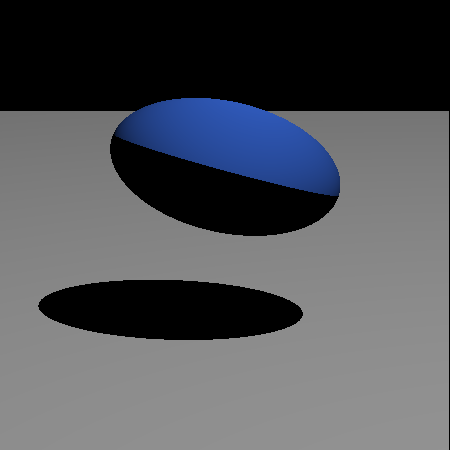
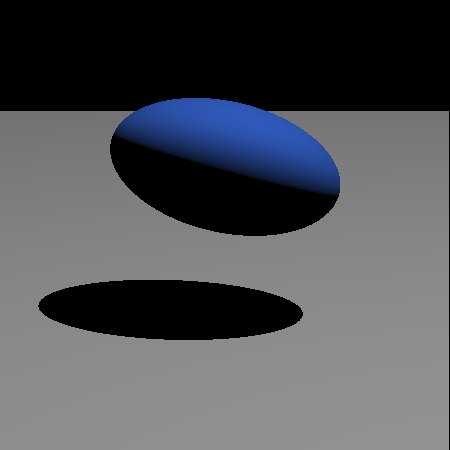
added semi working bounding boxes

Changed region(s): [[0.2489, 0.2489, 0.7467, 0.4356]]

diff --git a/ray/surface/Cylinder.java b/ray/surface/Cylinder.java
@@ -33,6 +33,8 @@ public class Cylinder extends Surface {
 	 * @return true if the surface intersects the ray
 	 */
 	public boolean intersect(IntersectionRecord outRecord, Ray rayIn) {
+		rayIn = untransformRay(rayIn);
+
 		 boolean inters = false;
 	        double tw = Double.POSITIVE_INFINITY; // t value for intersection with cylinder wall
 	        double te = Double.POSITIVE_INFINITY; // t value for intersection with end caps
@@ -106,6 +108,8 @@ public class Cylinder extends Surface {
 	            } else { // intersection with endcap
 	                outRecord.normal.set(0, 0, dir);
 	            }
+	            transformVector(outRecord.normal);
+	            transformPoint(outRecord.location);
 	            return true;
 	        }
         
@@ -130,6 +134,7 @@ public class Cylinder extends Surface {
         Vector3 offs = new Vector3(radius, radius, height);
         minBound.sub(offs);
         maxBound.add(offs);
+        transformBoundingBox();
     }
 
 }

diff --git a/ray/surface/Triangle.java b/ray/surface/Triangle.java
@@ -56,6 +56,8 @@ public class Triangle extends Surface {
      * @return true if the surface intersects the ray
      */
     public boolean intersect(IntersectionRecord outRecord, Ray rayIn) {    	
+		rayIn = untransformRay(rayIn);
+
     	Vector3 d = new Vector3(rayIn.direction);
     	Point3 e = new Point3(rayIn.origin);
 
@@ -147,7 +149,9 @@ public class Triangle extends Surface {
     	rayIn.evaluate(outRecord.location, t);
     	outRecord.surface = this;
     	outRecord.t = t;
-    	
+        transformVector(outRecord.normal);
+        transformPoint(outRecord.location);
+
     	return true;
     } 
     
@@ -169,6 +173,7 @@ public class Triangle extends Surface {
     public void computeBoundingBox() {
         // Compute the bounding box and store the result in
         // averagePosition, minBound, and maxBound.
+
         Point3 v0 = owner.getVertex(index[0]);
         Point3 v1 = owner.getVertex(index[1]);
         Point3 v2 = owner.getVertex(index[2]);

diff --git a/ray/surface/Box.java b/ray/surface/Box.java
@@ -26,6 +26,8 @@ public class Box extends Surface {
 	 * @return true if the surface intersects the ray
 	 */
     public boolean intersect(IntersectionRecord outRecord, Ray rayIn) {
+		rayIn = untransformRay(rayIn);
+
         Vector3 d = rayIn.direction;
         Vector3 m1 = new Vector3();
         m1.sub(minPt, rayIn.origin); // minPt - e
@@ -88,6 +90,8 @@ public class Box extends Surface {
                 outRecord.normal.set(0, 0, 1);
         }
         outRecord.normal.scale(nfac);
+        transformVector(outRecord.normal);
+        transformPoint(outRecord.location);
         
         return true;
     }
@@ -107,6 +111,7 @@ public class Box extends Surface {
         averagePosition = new Point3((minPt.x + maxPt.x)/2, (minPt.y + maxPt.y)/2, (minPt.z + maxPt.z)/2);
         minBound = new Point3(minPt);
         maxBound = new Point3(maxPt);
+        transformBoundingBox();
     }
 
 }

diff --git a/ray/surface/Surface.java b/ray/surface/Surface.java
@@ -115,20 +115,25 @@ public abstract class Surface {
     /**
      * Transform Vector
      * @param vector Input vector
-     * @return tMat * vector
      */
-    public Vector3 transformVector(Vector3 vector) {
-    	tMat.rightMultiply(vector);
-    	return vector;
+    public void transformVector(Vector3 vector) {
+    	tMatTInv.rightMultiply(vector);
+    	vector.normalize();
     }
     /**
      * Transform Point
      * @param point Input point
-     * @return tMat * point
      */
-    public Point3 transformPoint(Point3 point) {
+    public void transformPoint(Point3 point) {
     	tMat.rightMultiply(point);
-    	return point;
+    }
+    /**
+     * Transform Bounding Box
+     */
+    public void transformBoundingBox() {
+    	transformPoint(minBound);
+    	transformPoint(maxBound);
+    	transformPoint(averagePosition);
     }
 
 }

diff --git a/ray/surface/Sphere.java b/ray/surface/Sphere.java
@@ -64,11 +64,10 @@ public class Sphere extends Surface {
             outRecord.location.set(p);
             outRecord.normal.sub(p, center);
             outRecord.normal.normalize();
-            outRecord.normal.set(transformVector(outRecord.normal));
-            outRecord.normal.normalize();
-            outRecord.location.set(transformPoint(outRecord.location));
             outRecord.surface = this;
             outRecord.t = t;
+            transformVector(outRecord.normal);
+            transformPoint(outRecord.location);
 
             return true;
         }
@@ -92,6 +91,7 @@ public class Sphere extends Surface {
         Vector3 offs = new Vector3(radius, radius, radius);
         minBound.sub(offs);
         maxBound.add(offs);
+        transformBoundingBox();
     }
 
 
